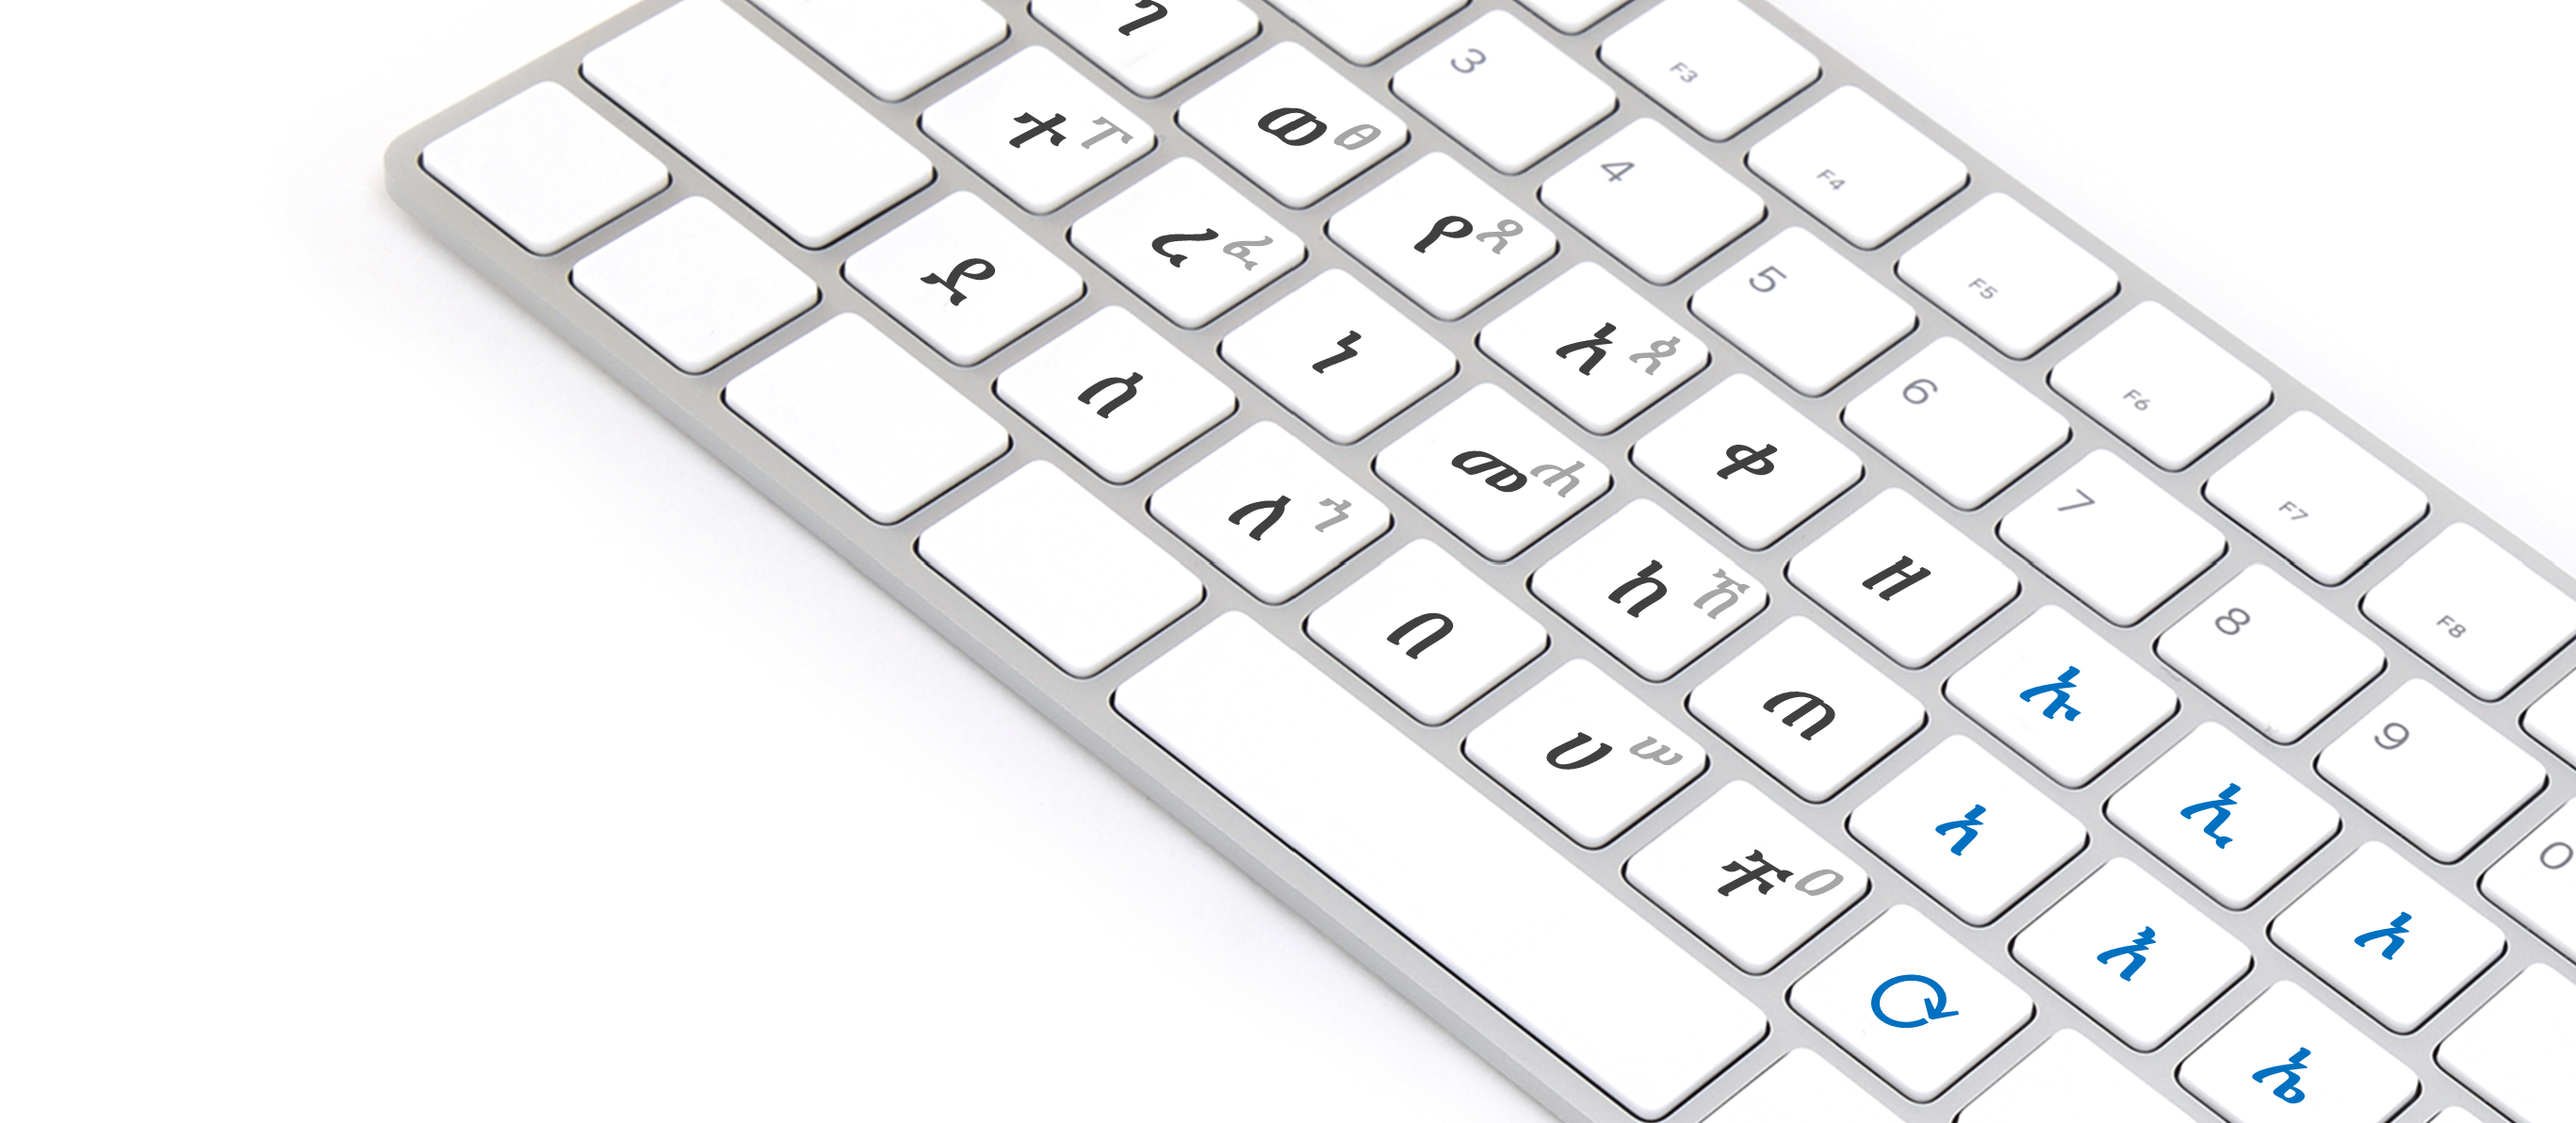
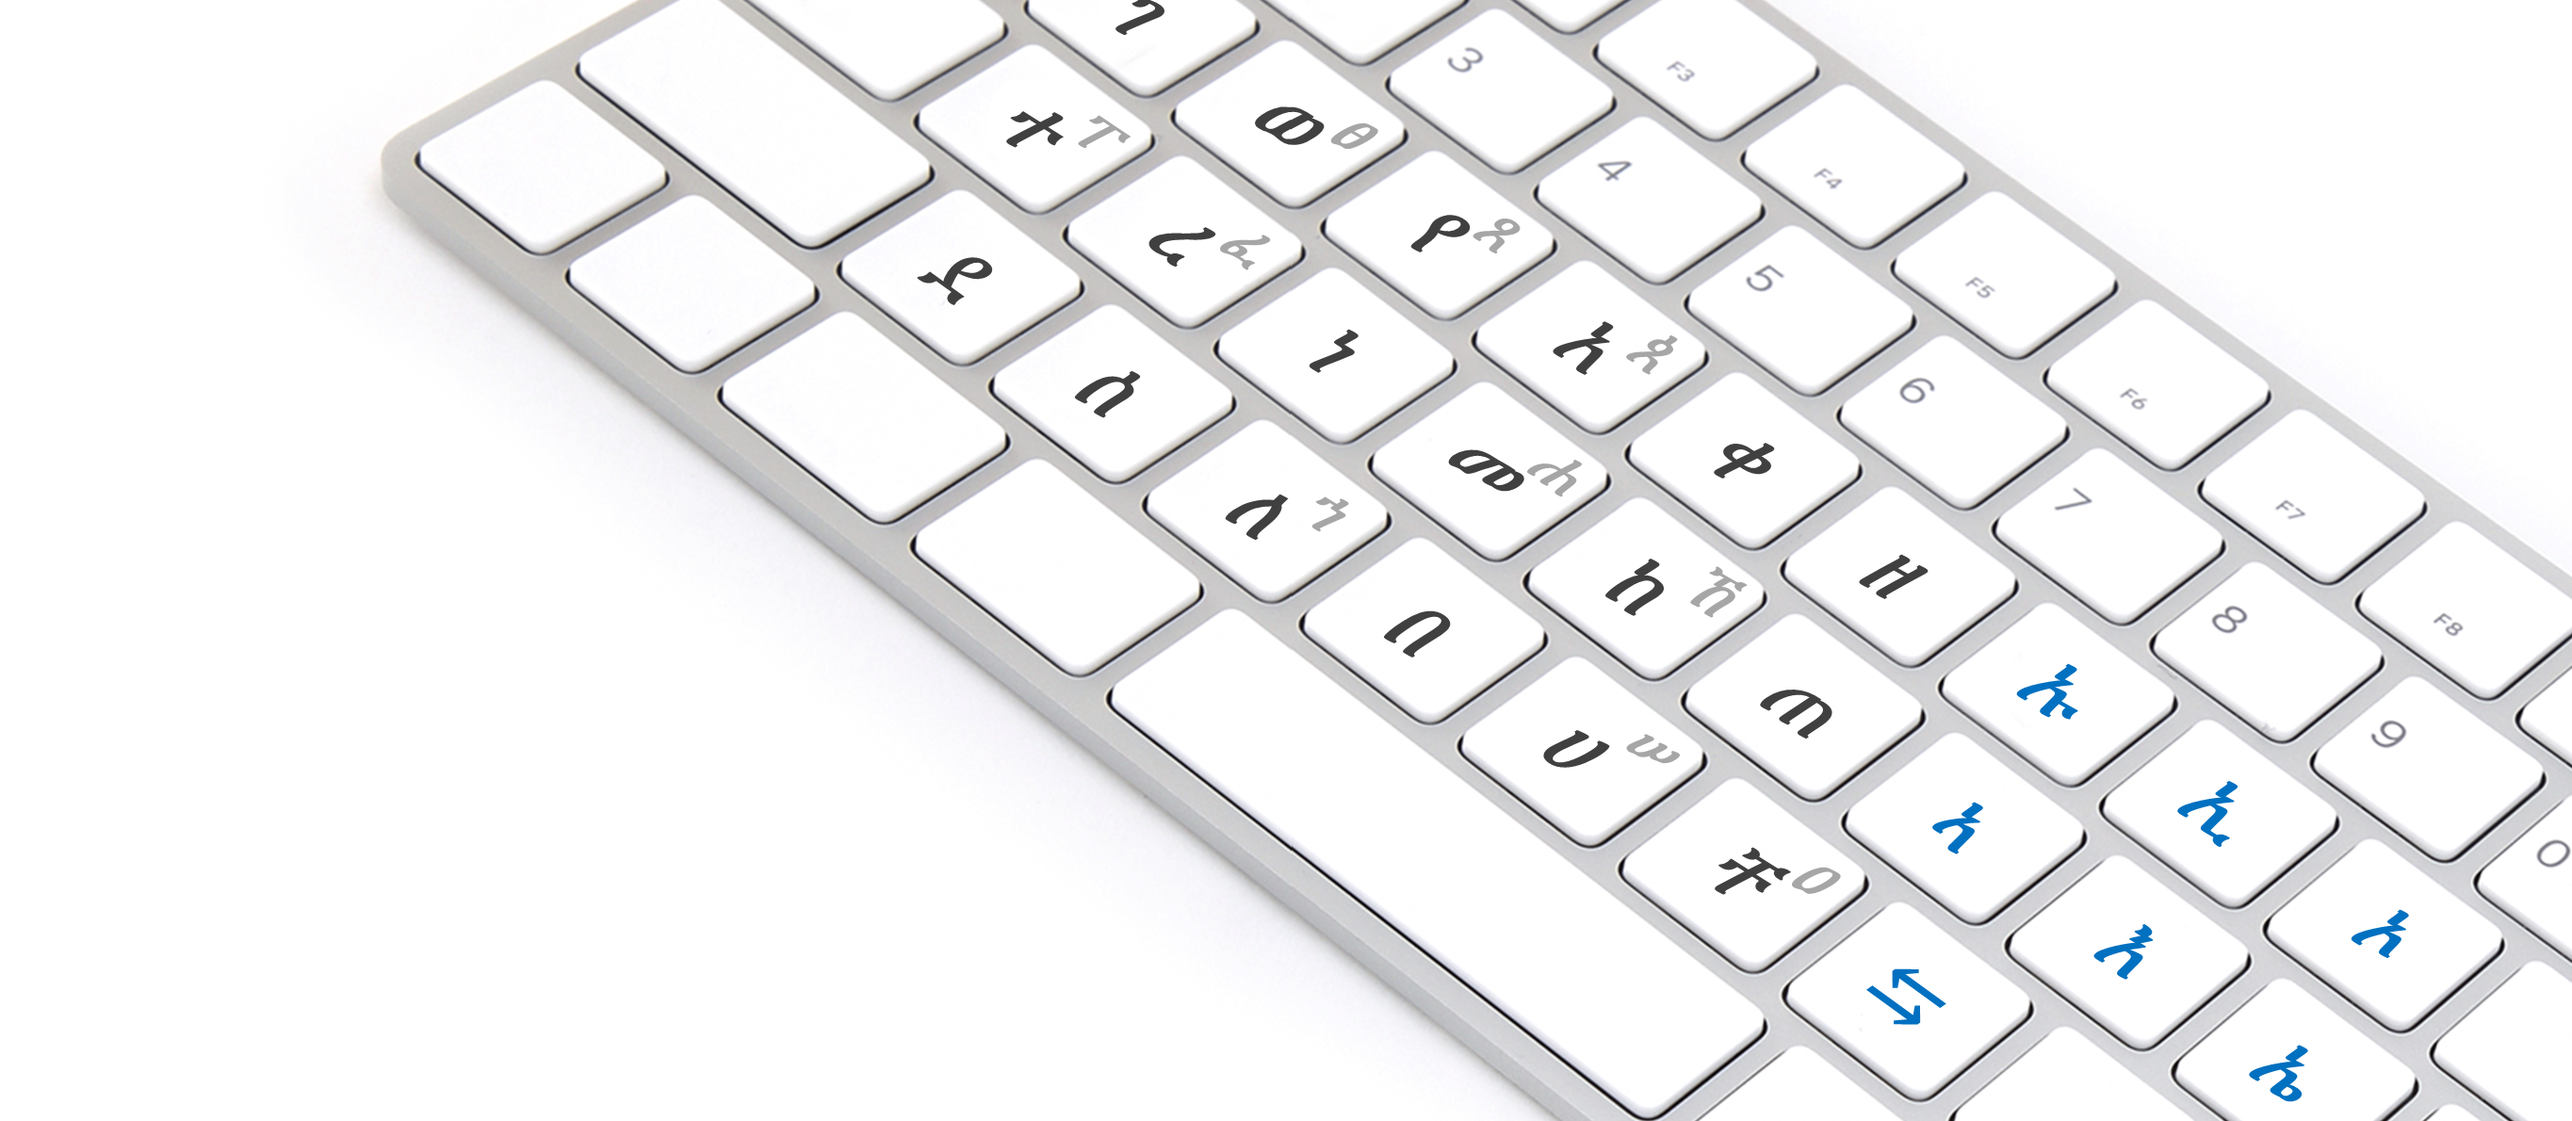
Add files via upload

diff --git a/mobile_demo.html b/mobile_demo.html
@@ -154,7 +154,7 @@
       </div>
       <div style="padding:14px 16px;font-size:14px;line-height:1.6">
         <ul style="margin:0;padding-left:18px">
-          <li>በአንድ ቁልፍ ላይ ያሉትን የኋላ ፊደሎች ለመጻፍ መጀመሪያ ያንን ቁልፍ ከዚያም የቀጣዩን መስፋፊያ (⇆) ይጫኑ።</li>
+          <li>በአንድ ቁልፍ ላይ ያሉትን የኋላ ፊደሎች ለመጻፍ መጀመሪያ ያንን ቁልፍ ከዚያም መቀየር ቁልፍ (⇆) ይጫኑ።</li>
           <li>መስፋፊያውን በተከታታይ ሁለት ጊዜ ካስጫኑ ዉ ይጻፋል።</li>
           <li>ግራጫ ቀለም ያላቸው የሞል ቁልፎች ብቻቸውን አይገቡም። መጀመሪያ ሥር ያለውን አ (አ) ይጫኑ።</li>
         </ul>

diff --git a/teranama.html b/teranama.html
@@ -437,8 +437,8 @@ const keyPos = {
   KeyQ:{x:309,y:474}, KeyW:{x:356,y:474}, KeyE:{x:402,y:474}, KeyR:{x:448,y:474},
   KeyT:{x:495,y:474}, KeyY:{x:562,y:474}, KeyU:{x:608,y:474}, KeyI:{x:654,y:474}, KeyO:{x:701,y:474},
   // 2행
-  KeyA:{x:320,y:512}, KeyS:{x:367,y:512}, KeyD:{x:413,y:512}, KeyF:{x:460,y:512},
-  KeyG:{x:506,y:512}, KeyH:{x:573,y:512}, KeyJ:{x:619,y:512}, KeyK:{x:666,y:512}, KeyL:{x:713,y:512},
+  KeyA:{x:322,y:512}, KeyS:{x:368,y:512}, KeyD:{x:414,y:512}, KeyF:{x:461,y:512},
+  KeyG:{x:507,y:512}, KeyH:{x:574,y:512}, KeyJ:{x:620,y:512}, KeyK:{x:666,y:512}, KeyL:{x:713,y:512},
   // 3행
   KeyZ:{x:345,y:549}, KeyX:{x:392,y:549}, KeyC:{x:438,y:549}, KeyV:{x:484,y:549},
   KeyB:{x:530,y:549}, KeyN:{x:597,y:549}, KeyM:{x:644,y:549},
